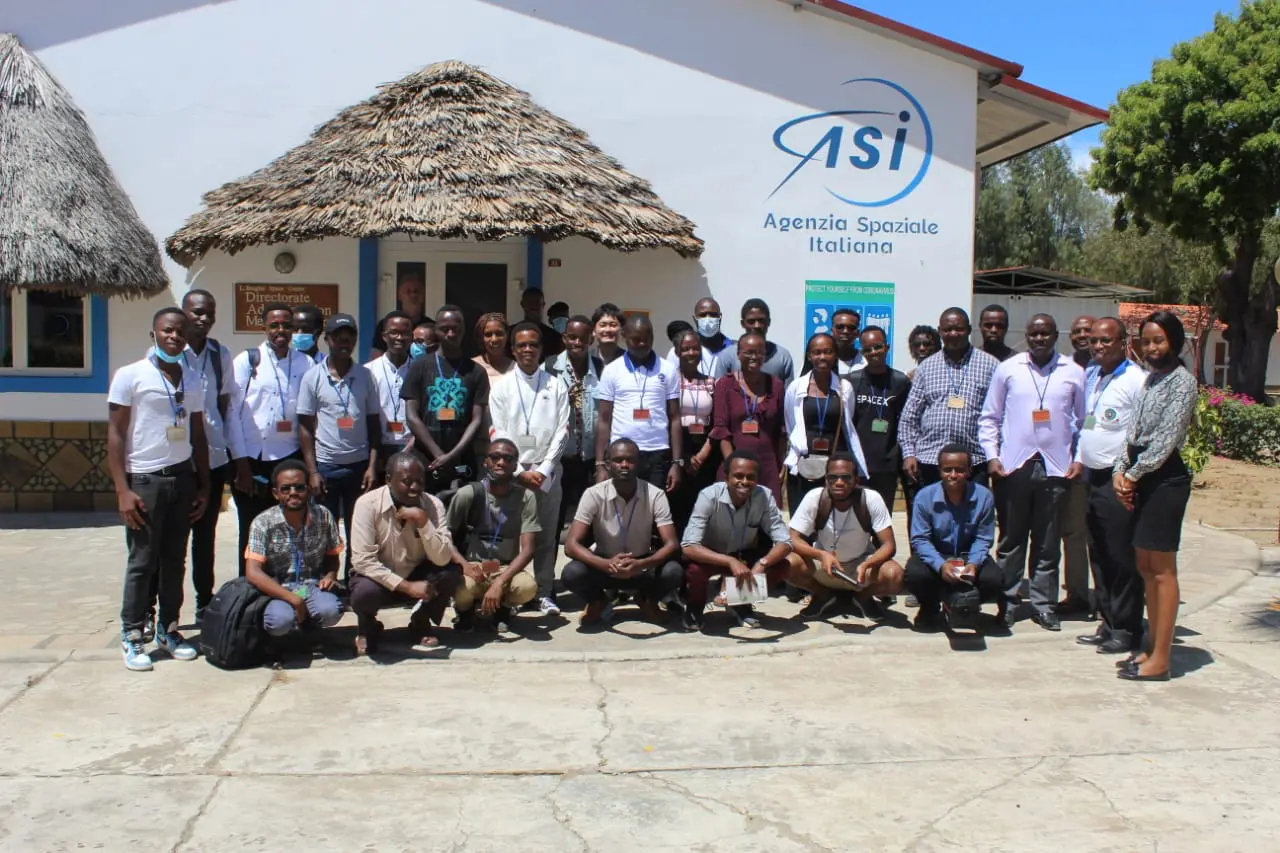
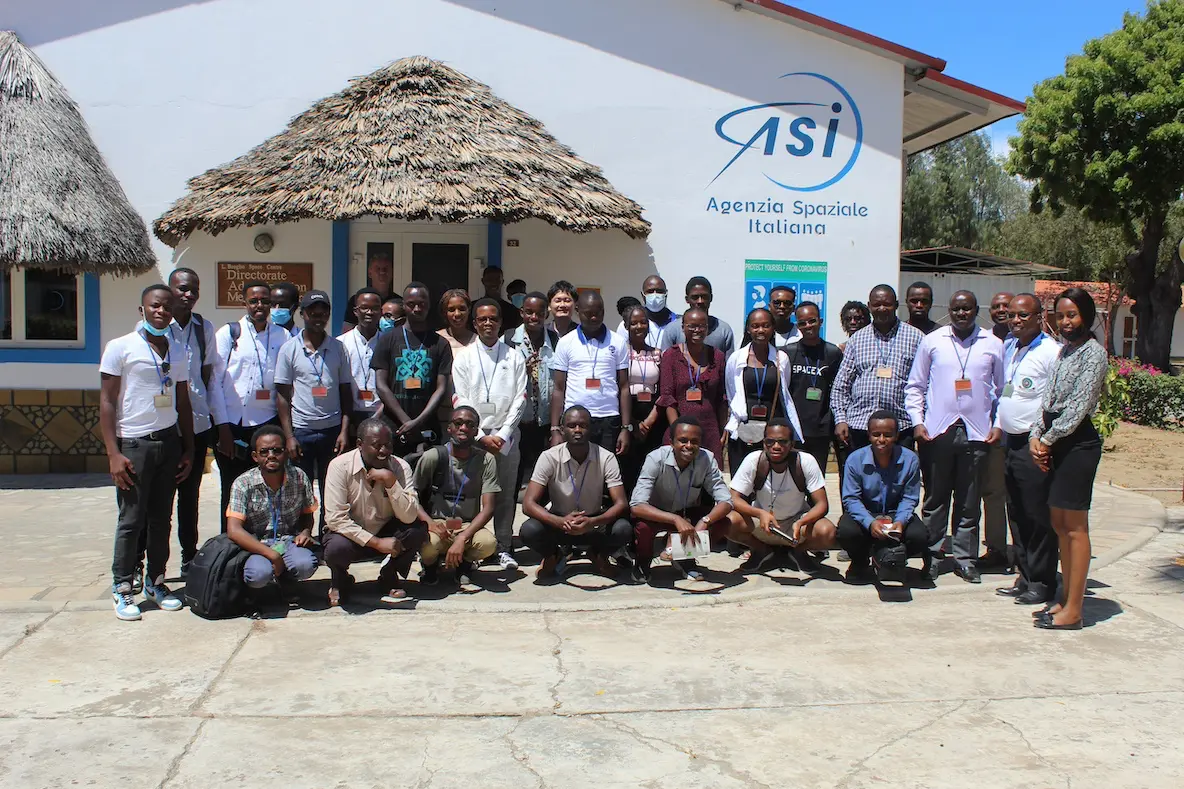
update photo

diff --git a/about.html b/about.html
@@ -38,7 +38,7 @@
             <div class="columns is-centered">
                 <div class="column is-half">
                     <figure class="image">
-                        <img src="./image/team2022.webp" />
+                        <img src="./image/gallery/N-2_interns.webp" />
                         <figcaption>
                             <i><small>Visit to Broglio Space Center in April 2022 supported by Kenya Space Agency (KSA)</small></i>
                         </figcaption>
